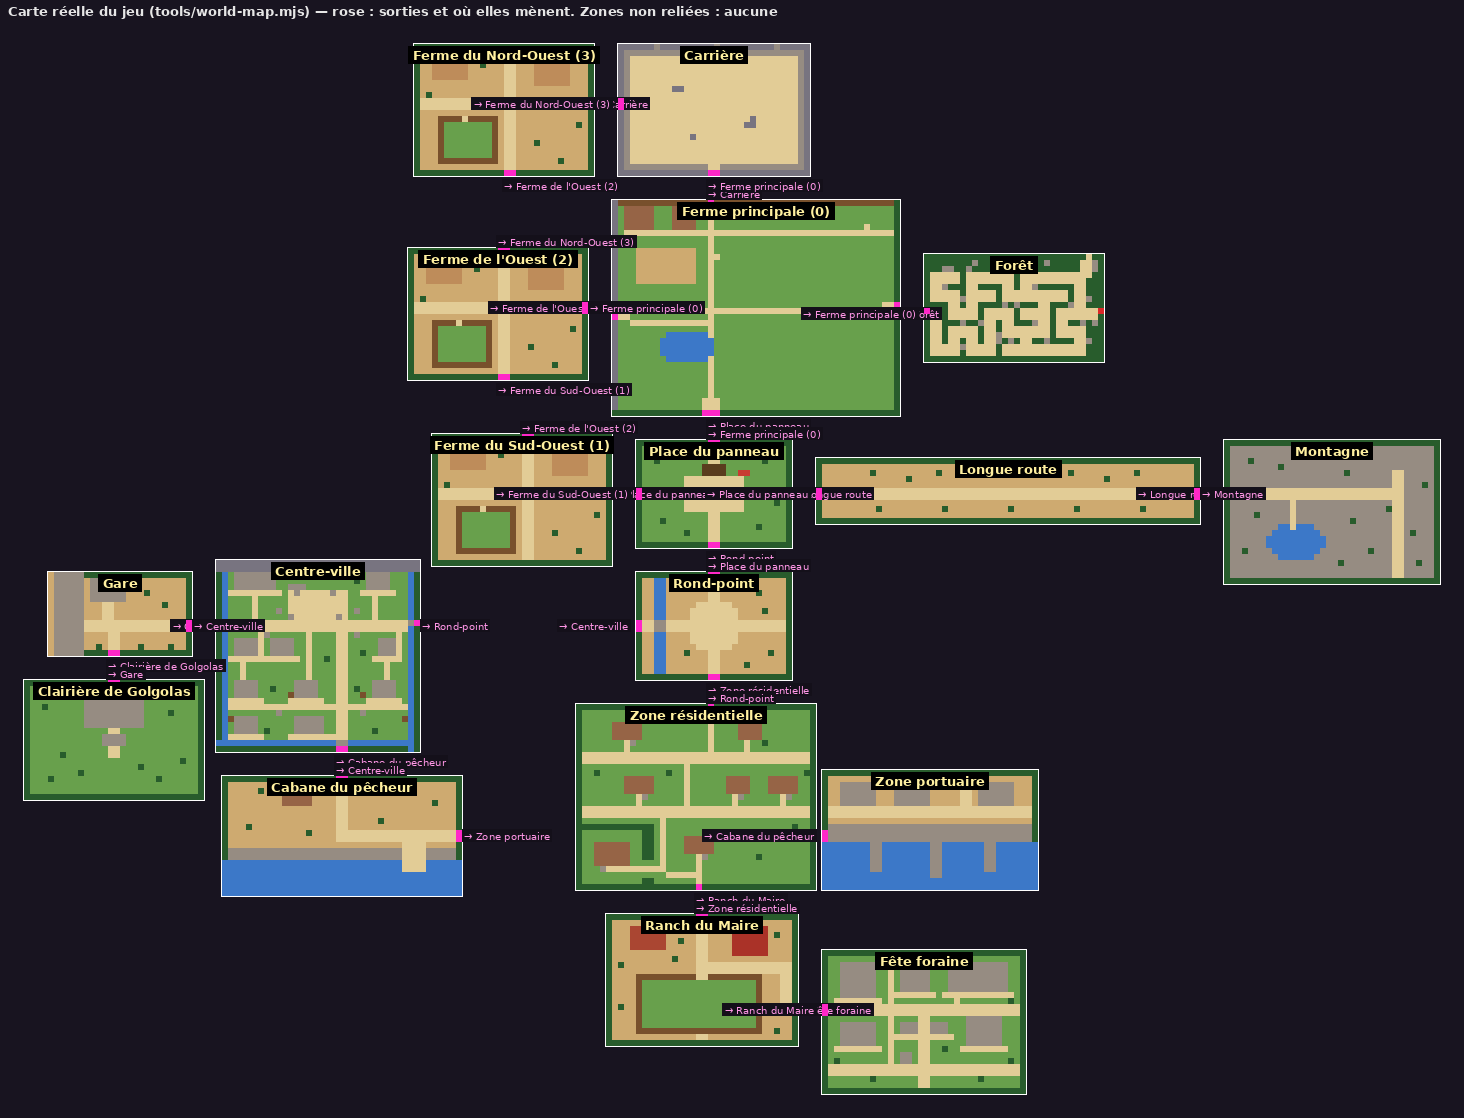
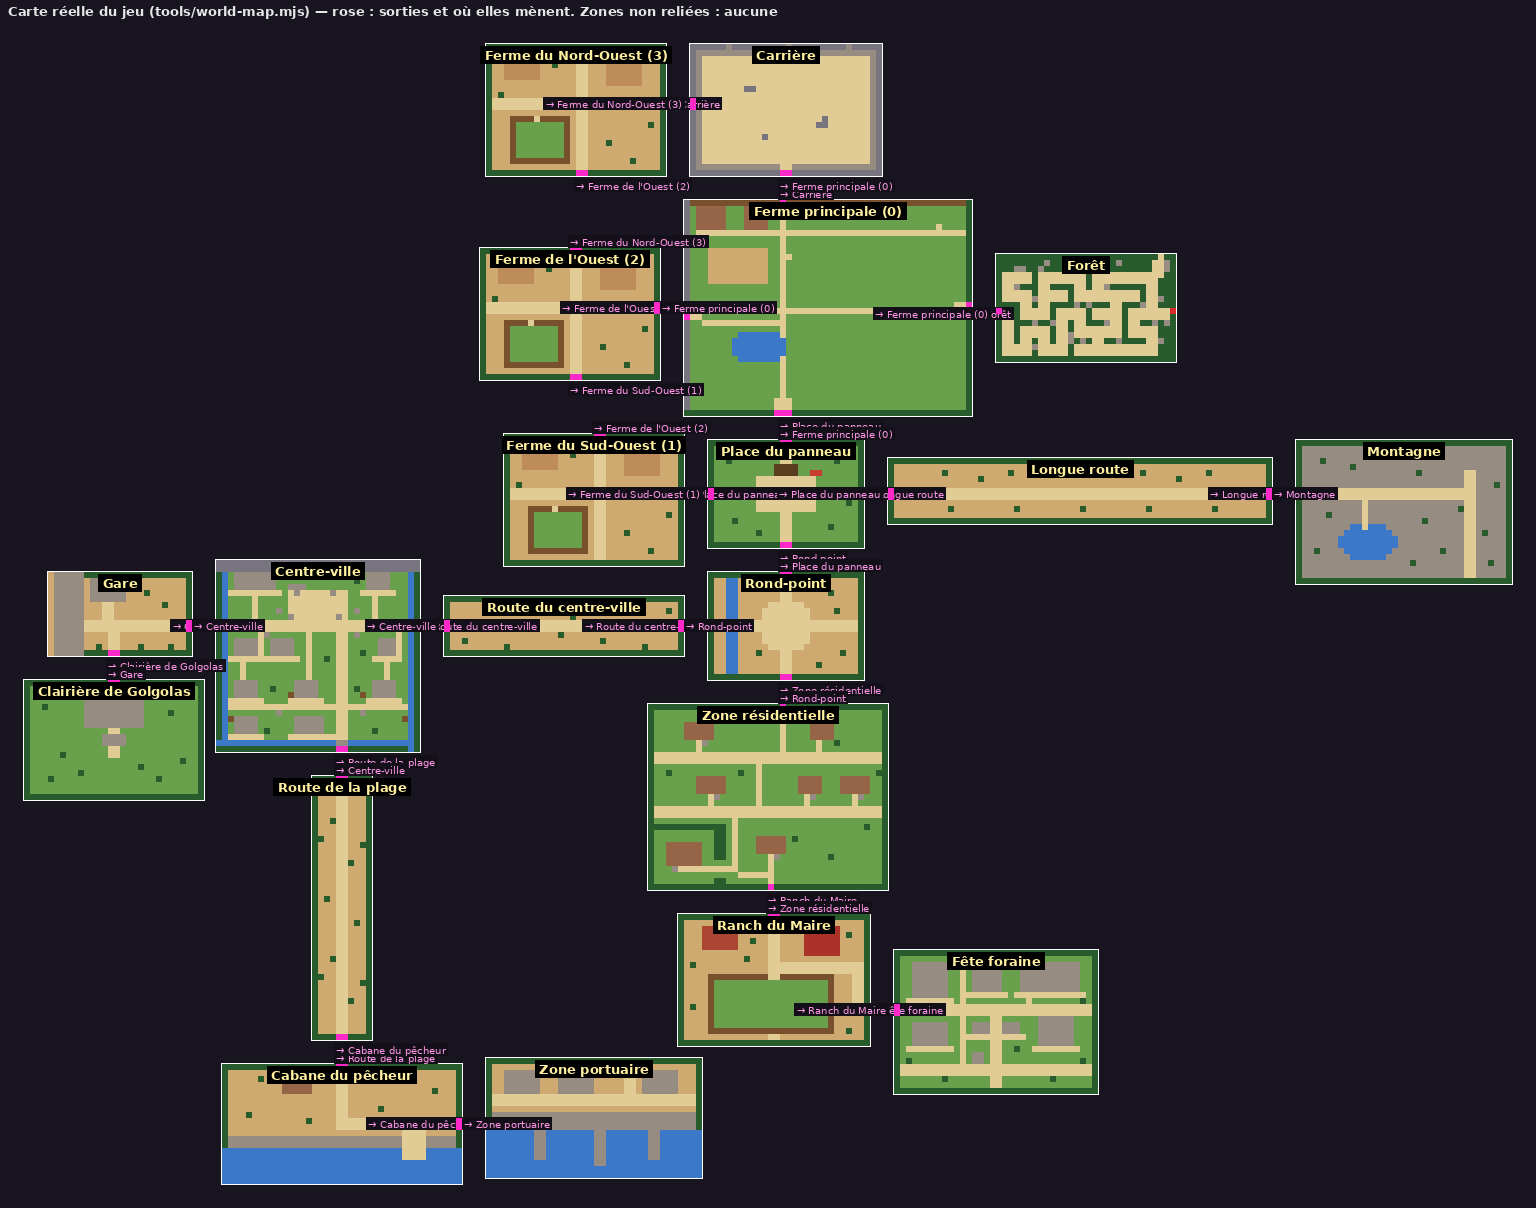
v0.1.91 routes du centre-ville, boutons dans les réglages / le menu, texte des arbres
Claude-Session: https://claude.ai/code/session_015ZGUhwpxtw3vBLAbdZYgRw

diff --git a/src/render/renderer.js b/src/render/renderer.js
@@ -323,7 +323,7 @@ let swing = null;
     if (cacheSeason !== S.season || cacheScene !== scene || (scene === 'foret' && cacheForest !== forestKey)) {   // lot 11 : nouveau labyrinthe
       cacheForest = forestKey;
       SIGN_SINK.list = [];
-      cache = outside ? farmGround() : scene === 'wild' ? (interiors['wild' + S.season] ||= buildWild(S.season)) : scene === 'foret' ? (interiors['foret' + forestKey + ':' + S.season] ||= buildWild(S.season, 'foret')) : scene === 'town' ? (interiors['town' + S.season] ||= buildTown(S.season)) : scene === 'quartier' ? (interiors['quartier' + S.season] ||= buildQuartier(S.season)) : (scene === 'montagne' || scene === 'plage') ? (interiors[scene] ||= buildBiome(scene, S.season)) : scene === 'parc' ? (interiors['parc' + S.season] ||= buildParc(S.season)) : (scene === 'carriere' || scene === 'carriere2') ? (interiors[scene + S.season] ||= buildQuarry(scene, S.season)) : (scene === 'rondpoint' || scene === 'place' || scene === 'route' || scene === 'ranch' || scene === 'port' || scene === 'gare' || scene === 'golgolas' || /^farm:\d$/.test(scene)) ? (interiors[scene + S.season] ||= buildWest(scene, S.season)) : (scene === 'resto' ? (interiors['resto' + !!(S.resto && S.resto.oven)] ||= buildInterior(scene, S)) : (scene === 'house' || scene === 'maison') ? (interiors[scene + !!S.workbench + (S.bed !== false)] ||= buildInterior(scene, S)) : (interiors[scene] ||= buildInterior(scene, S)));
+      cache = outside ? farmGround() : scene === 'wild' ? (interiors['wild' + S.season] ||= buildWild(S.season)) : scene === 'foret' ? (interiors['foret' + forestKey + ':' + S.season] ||= buildWild(S.season, 'foret')) : scene === 'town' ? (interiors['town' + S.season] ||= buildTown(S.season)) : scene === 'quartier' ? (interiors['quartier' + S.season] ||= buildQuartier(S.season)) : (scene === 'montagne' || scene === 'plage') ? (interiors[scene] ||= buildBiome(scene, S.season)) : scene === 'parc' ? (interiors['parc' + S.season] ||= buildParc(S.season)) : (scene === 'carriere' || scene === 'carriere2') ? (interiors[scene + S.season] ||= buildQuarry(scene, S.season)) : (scene === 'rondpoint' || scene === 'place' || scene === 'route' || scene === 'route_ville' || scene === 'route_plage' || scene === 'ranch' || scene === 'port' || scene === 'gare' || scene === 'golgolas' || /^farm:\d$/.test(scene)) ? (interiors[scene + S.season] ||= buildWest(scene, S.season)) : (scene === 'resto' ? (interiors['resto' + !!(S.resto && S.resto.oven)] ||= buildInterior(scene, S)) : (scene === 'house' || scene === 'maison') ? (interiors[scene + !!S.workbench + (S.bed !== false)] ||= buildInterior(scene, S)) : (interiors[scene] ||= buildInterior(scene, S)));
       if (!cache.__signs) cache.__signs = SIGN_SINK.list; SIGN_SINK.list = null;   // enseignes de ce décor
       if (cacheSeason !== S.season) initWeather();
       cacheSeason = S.season; cacheScene = scene;
@@ -434,7 +434,7 @@ let swing = null;
         ctx.fillStyle = 'rgba(0,0,0,.55)'; ctx.fillRect(x - 1, y - 1, 18, 5); ctx.fillStyle = '#f2a03a'; ctx.fillRect(x, y, Math.round(16 * p), 3); } });
     }
     if (sky) { // sorties : flèches animées et nom de la destination, au bord de l'écran
-      const NAMES = { farm: 'Ma ferme', place: 'Place du panneau', carriere: 'Carrière', route: 'Longue route', parc: 'Fête foraine', quartier: 'Zone résidentielle', gare: 'Gare', resto: 'Restaurant', rondpoint: 'Rond-point', ranch: 'Ranch du Maire', port: 'Zone portuaire', town: 'Centre-ville', foret: 'Forêt', wild: 'Caverne sombre', plage: 'Cabane du pêcheur', montagne: 'Montagne', rouky: 'Chez Rouky' }, seen = new Set();
+      const NAMES = { farm: 'Ma ferme', place: 'Place du panneau', carriere: 'Carrière', route: 'Longue route', route_ville: 'Route', route_plage: 'Route de la plage', town: 'Centre-ville', plage: 'Cabane du pêcheur', parc: 'Fête foraine', quartier: 'Zone résidentielle', gare: 'Gare', resto: 'Restaurant', rondpoint: 'Rond-point', ranch: 'Ranch du Maire', port: 'Zone portuaire', town: 'Centre-ville', foret: 'Forêt', wild: 'Caverne sombre', plage: 'Cabane du pêcheur', montagne: 'Montagne', rouky: 'Chez Rouky' }, seen = new Set();
       for (const d of SC.doors || []) {
         const W = SC.W, H = SC.H, edge = d.x === 0 ? 'g' : d.x === W - 1 ? 'd' : d.y === 0 ? 'h' : d.y === H - 1 ? 'b' : null;
         if (!edge || !NAMES[d.to] || seen.has(d.to + edge)) continue; seen.add(d.to + edge);

diff --git a/tests/debut.test.js b/tests/debut.test.js
@@ -206,8 +206,8 @@ test('Farmwest 2d : la route de l’est mène à la forêt ; le centre-ville est
   const { g, S } = start({ flags: { foretTree: true } });   // 19/11 : la forêt est à l'est de la ferme principale
   for (let x = 2; x <= 46; x++) assert.equal(ground(x, 18), 'path', '20/11 : au milieu');
   assert.equal(act(g, 47, 18), 'door'); assert.equal(S.scene, 'foret');
-  assert.ok(SCENES.town.doors.some(d => d.x === 33 && d.to === 'rondpoint'), 'à l’est du centre-ville : le pont vers le rond-point');
-  assert.ok(SCENES.rondpoint.doors.some(d => d.x === 0 && d.to === 'town'));
+  assert.ok(SCENES.town.doors.some(d => d.x === 33 && d.to === 'route_ville'), 'à l’est du centre-ville : la route vers le rond-point');
+  assert.ok(SCENES.rondpoint.doors.some(d => d.x === 0 && d.to === 'route_ville') && SCENES.route_ville.doors.some(d => d.to === 'town'));
 });
 
 test('la route de l’est va jusqu’au bord de la ferme (on voit qu’elle continue)', () => {
@@ -249,7 +249,7 @@ test('Farmwest lot 2 : rond-point, ranch du Maire et port reliés', () => {
   const { g, S } = start({ minute: 600 });
   act(g, 16, 35); act(g, 12, 17); assert.equal(S.scene, 'rondpoint');
   assert.ok(isSolid(S, 12, 8), 'la fontaine au centre');
-  assert.equal(act(g, 0, 8), 'door'); assert.equal(S.scene, 'town');
+  assert.equal(act(g, 0, 8), 'door'); assert.equal(S.scene, 'route_ville');
   S.scene = 'rondpoint'; assert.ok(!SCENES.rondpoint.doors.some(d => d.to === 'ranch'), '20/11 : plus de ranch à l’est du rond-point');
   assert.equal(act(g, 12, 17), 'door'); assert.equal(S.scene, 'quartier');
   assert.equal(act(g, 20, 30), 'door'); assert.equal(S.scene, 'ranch', '20/11 : le ranch au sud de la zone résidentielle');
@@ -263,8 +263,9 @@ test('Farmwest lot 2 : rond-point, ranch du Maire et port reliés', () => {
 test('Farmwest 2d : plage au sud (mer en bas), rivière et pont au rond-point, maison du Maire au ranch', () => {
   const P = LAY.plage; assert.ok(P[P.length - 1].includes('w') && !P[0].includes('w'), 'la mer est au sud');
   const { g, S } = start({ minute: 600 });
-  S.scene = 'town'; assert.equal(act(g, 20, 31), 'door'); assert.equal(S.scene, 'plage');
-  assert.equal(act(g, 19, 0), 'door'); assert.equal(S.scene, 'town');
+  S.scene = 'town'; assert.equal(act(g, 20, 31), 'door'); assert.equal(S.scene, 'route_plage', '20/11 : une route descend vers la plage');
+  assert.equal(act(g, 4, 43), 'door'); assert.equal(S.scene, 'plage');
+  assert.equal(act(g, 19, 0), 'door'); assert.equal(S.scene, 'route_plage');
   S.scene = 'rondpoint'; assert.ok(isSolid(S, 3, 4), 'la rivière'); assert.ok(!isSolid(S, 3, 8), 'le pont');
   S.scene = 'ranch'; assert.equal(act(g, 6, 5), 'door'); assert.equal(S.scene, 'ranch_maison');
 });

diff --git a/src/ui/menu.js b/src/ui/menu.js
@@ -38,7 +38,7 @@ import { NEED, SKILL_NAMES, SKILL_MAX } from '../data/tools.js';
 import { VEINS } from '../data/nature.js';
 
 const JTABS = { journal: '📝 Activités', quests: '⭐ Quêtes en cours', social: '💞 Liens', histoire: '📖 Histoire' };   // 19/11 : onglets du journal
-const TABS = { sac: 'Sac', equip: '🎽 Équipement', poissons: '🐟 Poissons', metiers: '🧑🔧 Métiers', forge: 'Forge', social: 'Liens' };   // 19/11 : recettes et quêtes ont leur bouton près de l'action
+const TABS = { sac: 'Sac', equip: '🎽 Équipement', poissons: '🐟 Poissons', metiers: '🧑🔧 Métiers', forge: 'Forge', social: 'Liens', reglages: '⚙ Réglages' };   // 20/11 : les réglages (et la sauvegarde) passent dans le menu   // 19/11 : recettes et quêtes ont leur bouton près de l'action
 const TITLES = { recettes: '🛠 Recettes', quests: '⭐ Quêtes', poissons: '🐟 Carnet de pêche', market: '🏪 Marché', upgrades: '🧰 Magasin d\'amélioration', carpenter: '🪚 Charpentier', workshop: '🛠 Établi', animals: '🐾 Marchand d\'animaux', bakery: '🥖 Boulangerie', igorShop: '⚒ Boutique d’Igor', butcher: '🥩 Boucherie', fishmonger: '🐟 Poissonnerie' };
 const esc = s => String(s).replace(/[&<>"]/g, c => ({ '&': '&amp;', '<': '&lt;', '>': '&gt;', '"': '&quot;' }[c]));
 const it = id => ITEMS[id] || { n: id, i: '❔', p: 0 };
@@ -218,7 +218,7 @@ export function createMenu(g, opts) {
     $('#tabBody').innerHTML = prof + code + views[tab](g.S);
     if (tab === 'market') renderPlayers();
   }
-  $('#tabs').onclick = e => { const t = e.target.dataset.t; if (t) { tab = t; if (jmode) setJournalTab(g.S, t); audio.play('ui'); render(); } };   // 19/11 : l'onglet du journal est gardé dans la sauvegarde
+  $('#tabs').onclick = e => { const t = e.target.dataset.t; if (t === 'reglages') { $('#ovBag').classList.remove('on'); audio.play('ui'); g.bus.emit('open', 'settings'); return; } if (t) { tab = t; if (jmode) setJournalTab(g.S, t); audio.play('ui'); render(); } };   // 19/11 : l'onglet du journal est gardé dans la sauvegarde
   $('#tabBody').addEventListener('click', e => {
     for (const k in handlers) { const v = e.target.dataset[k]; if (v != null) { handlers[k](v); render(); return; } }
   });

diff --git a/src/world/scenes.js b/src/world/scenes.js
@@ -691,3 +691,23 @@ openDoors('place', [[25, 8], [25, 9]], 'route', { x: 1.6, y: 5.9 }, line(13, 8, 
 openDoors('montagne', [[0, 8], [0, 9]], 'route', { x: 62.2, y: 5.9 });
 // 20/11 : la carrière profonde est un sous-sol (pas sur la carte de la région)
 SCENES.carriere2.underground = true;
+// 20/11 : routes entre le centre-ville et le rond-point (est), et entre le centre-ville et la cabane du pêcheur (sud) :
+// la plage est tout en bas, sous le ranch.
+function roadLayout(W, H, horiz) {
+  const m = grid(W, H, 's'), ex = [];
+  if (horiz) { for (let x = 0; x < W; x++) { m[4][x] = '.'; m[5][x] = '.'; } ex.push([0, 4], [0, 5], [W - 1, 4], [W - 1, 5]); }
+  else { for (let y = 0; y < H; y++) { m[y][4] = '.'; m[y][5] = '.'; } ex.push([4, 0], [5, 0], [4, H - 1], [5, H - 1]); }
+  for (let y = 1; y < H - 1; y++) for (let x = 1; x < W - 1; x++) if (m[y][x] === 's' && ((x * 37 + y * 17) % 23 === 0)) m[y][x] = 'T';
+  border(m, ex); return m.map(r => r.join(''));
+}
+const retarget = (sc, from, to, spawn) => { for (const d of SCENES[sc].doors) if (d.to === from) { d.to = to; d.spawn = spawn; } };
+LAYOUTS.route_ville = roadLayout(40, 10, true);
+SCENES.route_ville = { W: 40, H: 10, outdoor: true, doors: [{ x: 0, y: 4, to: 'town', spawn: { x: 32.2, y: 10.6 } }, { x: 0, y: 5, to: 'town', spawn: { x: 32.2, y: 10.6 } },
+  { x: 39, y: 4, to: 'rondpoint', spawn: { x: 1.6, y: 8.9 } }, { x: 39, y: 5, to: 'rondpoint', spawn: { x: 1.6, y: 8.9 } }] };
+retarget('town', 'rondpoint', 'route_ville', { x: 1.6, y: 4.9 });
+retarget('rondpoint', 'town', 'route_ville', { x: 38.2, y: 4.9 });
+LAYOUTS.route_plage = roadLayout(10, 44, false);
+SCENES.route_plage = { W: 10, H: 44, outdoor: true, doors: [{ x: 4, y: 0, to: 'town', spawn: { x: 20.5, y: 29.8 } }, { x: 5, y: 0, to: 'town', spawn: { x: 20.5, y: 29.8 } },
+  { x: 4, y: 43, to: 'plage', spawn: { x: 19.9, y: 1.8 } }, { x: 5, y: 43, to: 'plage', spawn: { x: 19.9, y: 1.8 } }] };
+retarget('town', 'plage', 'route_plage', { x: 4.9, y: 1.8 });
+retarget('plage', 'town', 'route_plage', { x: 4.9, y: 42.2 });

diff --git a/src/main.js b/src/main.js
@@ -116,7 +116,7 @@ function wireBus() {
   g.bus.on('openChest', c => chestPanel.open(c));
   g.bus.on('showMap', () => { mapView.open(); toast('🗺 Le plan est toujours là : bouton 🗺 en haut à droite (ou touche M).'); });
   g.bus.on('clinic', e => { const h = NPCS.hailey, lines = e && e.off === 'repos' ? h.clinicRepos : e && e.off === 'nuit' ? h.clinicNuit : h.clinic; setTimeout(() => g.bus.emit('say', { name: h.name, color: h.color, voice: h.voice, lines }), 600); });
-  g.bus.on('open', what => what === 'journal' ? menu.openJournal() : what === 'board' ? board.open() : what === 'sell' ? sellPanel.open() : what === 'stand' ? standPanel.open() : what === 'calendar' ? calendarPanel.open() : what === 'quests' ? menu.open('quests', true) : menu.open(what, true));
+  g.bus.on('open', what => what === 'settings' ? settingsPanel.open() : what === 'journal' ? menu.openJournal() : what === 'board' ? board.open() : what === 'sell' ? sellPanel.open() : what === 'stand' ? standPanel.open() : what === 'calendar' ? calendarPanel.open() : what === 'quests' ? menu.open('quests', true) : menu.open(what, true));
 }
 wireBus();
 
@@ -234,6 +234,7 @@ addEventListener('keydown', e => {
 });
 
 $('#bSave').onclick = () => doSave(true);
+g.bus.on('saveNow', () => doSave(true));   // 20/11 : bouton 💾 dans les réglages
 // Intro : ⏩ maintenir pour accélérer, ⏭ passer jusqu'à la ferme
 { const f = $('#bIntroFast'), on = v => { g.introFast = v; f.classList.toggle('on', v); };
   f.addEventListener('pointerdown', e => { e.preventDefault(); on(true); }); for (const ev of ['pointerup', 'pointerleave', 'pointercancel']) f.addEventListener(ev, () => on(false));

diff --git a/src/ui/settingsPanel.js b/src/ui/settingsPanel.js
@@ -40,7 +40,7 @@ export function createSettingsPanel(audio, g) {
         <input id="vol-${c.k}" type="range" min="0" max="100" value="${Math.round(s[c.k].vol * 100)}" data-vol="${c.k}">
         <span class="pct">${s[c.k].on ? Math.round(s[c.k].vol * 100) : 0} %</span>
       </div>`).join('') + `
-      ${g.inGame ? '<div class="row" style="justify-content:center"><button data-totitle="1" class="primaire">🏠 Revenir au menu principal</button></div>' : ''}
+      ${g.inGame ? '<div class="row" style="justify-content:center"><button data-save="1" class="primaire">💾 Sauvegarder</button><button data-totitle="1">🏠 Revenir au menu principal</button></div>' : ''}
       <p class="info" style="text-align:center;opacity:.7">Farmwest ${versionLabel()}</p>
       <div class="ecran"><b>📱 Écran</b>
         <div class="row">${Object.entries(ORIENTS).map(([k, v]) => `<button data-orient="${k}" class="${getOrient() === k ? 'on' : ''}">${v}</button>`).join('')}</div>
@@ -62,6 +62,7 @@ export function createSettingsPanel(audio, g) {
   body.addEventListener('click', async e => {
     const d = e.target.dataset;
     if (d.orient) { setOrient(d.orient); audio.play('ui'); if (document.fullscreenElement) toast(await goFullscreen(d.orient)); render(); return; }
+    if (d.save) { audio.play('ui'); g.bus.emit('saveNow'); return; }   // 20/11
     if (d.totitle) { $('#ovSet').classList.remove('on'); g.bus.emit('toTitle'); return; }
     if (d.zoom) { setZoom(+d.zoom); audio.play('ui'); render(); return; }
     if (d.eco != null) { setEco(d.eco === '1'); audio.play('ui'); render(); return; }

diff --git a/src/systems/examine.js b/src/systems/examine.js
@@ -2,7 +2,7 @@
 import { EXAMINE } from '../data/examine.js';
 import { tileAt } from '../world/scenes.js';
 import { isRepaired } from './repair.js';
-import { QUARTIER, mailboxOwner } from '../world/scenes.js';
+import { QUARTIER, mailboxOwner, SCENES } from '../world/scenes.js';
 import { isMystHouse, isHouse, isGrange, isFence, isPond, isLunaHouse, isFranckHouse, buildingAt } from '../world/map.js';
 
 const MAILBOX = { luna: 'Une boîte aux lettres. Il est écrit dessus : « Luna ».', franck: 'Une boîte aux lettres. Il est écrit dessus : « Franck ».', hailey: 'Une boîte aux lettres. Il est écrit dessus : « Hailey ».', myst: 'Une boîte aux lettres. Il est écrit dessus : « Myst ».', ed: 'Une boîte aux lettres. Il est écrit dessus : « Famille Ed — Ed, Suzie et Jade ».', remy: 'Une boîte aux lettres. Il est écrit dessus : « Remy Gusto ».' };
@@ -38,5 +38,6 @@ export function examineText(S, tx, ty) {
   if (sc === 'wild') return t === 'T' ? K.treeWild : t === '#' ? K.rockWild : null;
   if (sc === 'grange') return t === '#' ? K.rockGrange : t === 'W' ? K.wallGrange : null;
   if ((sc === 'house' || sc === 'maison') && t === 'B') return null; // le lit sert à dormir
+  if (SCENES[sc] && SCENES[sc].outdoor) return t === 'T' ? K.treeTown : null;   // 20/11 : dehors, un « T » est un arbre (pas la table des intérieurs)
   return K[t] || null;
 }

diff --git a/tests/fishing.test.js b/tests/fishing.test.js
@@ -48,7 +48,7 @@ test('combat : hors de la zone verte, la prise baisse jusqu’à l’échappée'
 test('montagne gelée (au bout de la longue route, à l’est de la place) : grotte fermée, et le froid fait baisser la vie sans manteau', () => {
   assert.ok(SCENES.route.doors.some(d => d.to === 'montagne') && SCENES.place.doors.some(d => d.to === 'route'));
   assert.ok(!SCENES.quartier.doors.some(d => d.to === 'montagne'));
-  assert.ok(SCENES.town.doors.some(d => d.to === 'plage'), 'la station balnéaire est au sud du centre-ville');
+  assert.ok(SCENES.town.doors.some(d => d.to === 'route_plage') && SCENES.route_plage.doors.some(d => d.to === 'plage'), 'la cabane du pêcheur est au sud du centre-ville, par une route');
   const { g, S } = makeGame({ state: { scene: 'montagne', hp: 100, inv: {} } });
   let gy, gx; LAYOUTS.montagne.forEach((r, y) => { const x = r.indexOf('G'); if (x >= 0) { gx = x; gy = y; } });
   assert.equal(act(g, gx, gy), 'locked');

diff --git a/src/render/regionmap.js b/src/render/regionmap.js
@@ -16,7 +16,7 @@ const FARM_AT = { 0: { x: 44, y: 10, w: 7, h: 6 }, 1: { x: 30, y: 12, w: 6, h: 4
 export const FARM_RECT = l => FARM_AT[l.id] || FARM_AT[0];
 export const REGION_POS = {
   gare: [9, 18], golgolas: [8, 27], carriere: [55, 4], carriere2: [55, 4], place: [39, 16], town: [24, 22], resto: [24, 22], bar: [24, 22], rondpoint: [44, 19], quartier: [51, 23], ranch: [50, 29],
-  parc: [48, 38], plage: [27, 40], port: [74, 41], foret: [61, 14], wild: [79, 5], montagne: [79, 17], route: [62, 16]
+  parc: [48, 38], plage: [27, 40], port: [74, 41], foret: [61, 14], wild: [79, 5], montagne: [79, 17], route: [62, 16], route_ville: [34, 20], route_plage: [24, 32]
 };
 export function regionPos(S) {
   const p = REGION_POS[S.scene];

diff --git a/index.html b/index.html
@@ -25,8 +25,8 @@
 <div id="topbtns" style="display:none">
   <button id="bMap" title="Carte" aria-label="Carte">🗺</button>
   <button id="bBag" title="Menu" aria-label="Menu">☰</button>
-  <button id="bSave" title="Sauvegarder" aria-label="Sauvegarder">💾</button>
-  <button id="bSet" title="Réglages" aria-label="Réglages">⚙</button>
+  <button id="bSave" title="Sauvegarder" aria-label="Sauvegarder" hidden>💾</button>
+  <button id="bSet" title="Réglages" aria-label="Réglages" hidden>⚙</button>
 </div>
 <div id="controls" style="display:none">
   <div id="stick" aria-label="Joystick"><div id="knob"></div></div>

diff --git a/play.html b/play.html
@@ -20,8 +20,8 @@
 <div id="topbtns" style="display:none">
   <button id="bMap" title="Carte" aria-label="Carte">🗺</button>
   <button id="bBag" title="Menu" aria-label="Menu">☰</button>
-  <button id="bSave" title="Sauvegarder" aria-label="Sauvegarder">💾</button>
-  <button id="bSet" title="Réglages" aria-label="Réglages">⚙</button>
+  <button id="bSave" title="Sauvegarder" aria-label="Sauvegarder" hidden>💾</button>
+  <button id="bSet" title="Réglages" aria-label="Réglages" hidden>⚙</button>
 </div>
 <div id="controls" style="display:none">
   <div id="stick" aria-label="Joystick"><div id="knob"></div></div>

diff --git a/src/version.js b/src/version.js
@@ -1,4 +1,4 @@
 // Version du jeu (semver horodaté). Fichier écrit par `node tools/version.mjs` : ne pas modifier à la main.
 // Patch = automatique à chaque publication ; mineure et majeure = seulement quand l'utilisateur le demande.
-export const VERSION = { major: 0, minor: 1, patch: 90, date: '2026-11-20T11:12' };
+export const VERSION = { major: 0, minor: 1, patch: 91, date: '2026-11-20T11:24' };
 export const versionLabel = (v = VERSION) => `v${v.major}.${v.minor}.${v.patch} · ${v.date.slice(8, 10)}/${v.date.slice(5, 7)}/${v.date.slice(0, 4)} ${v.date.slice(11, 16)}`;
